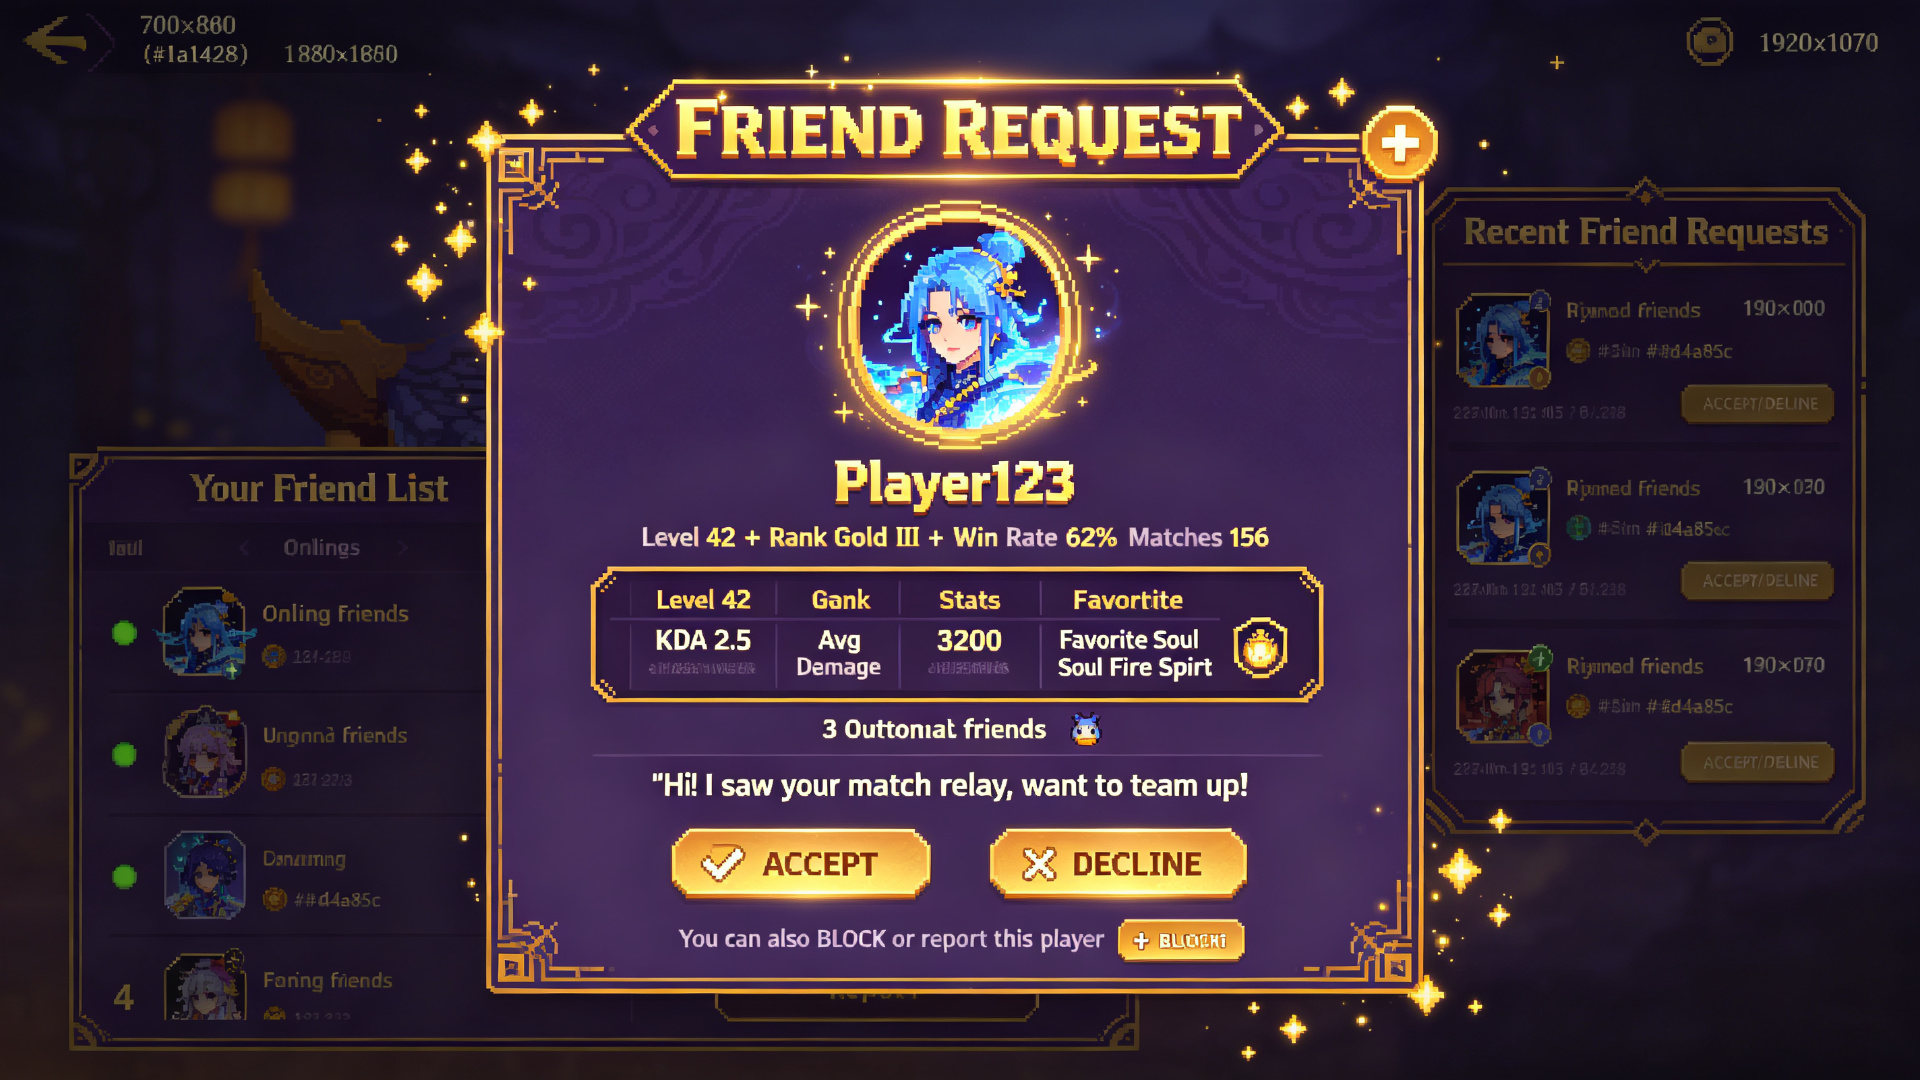
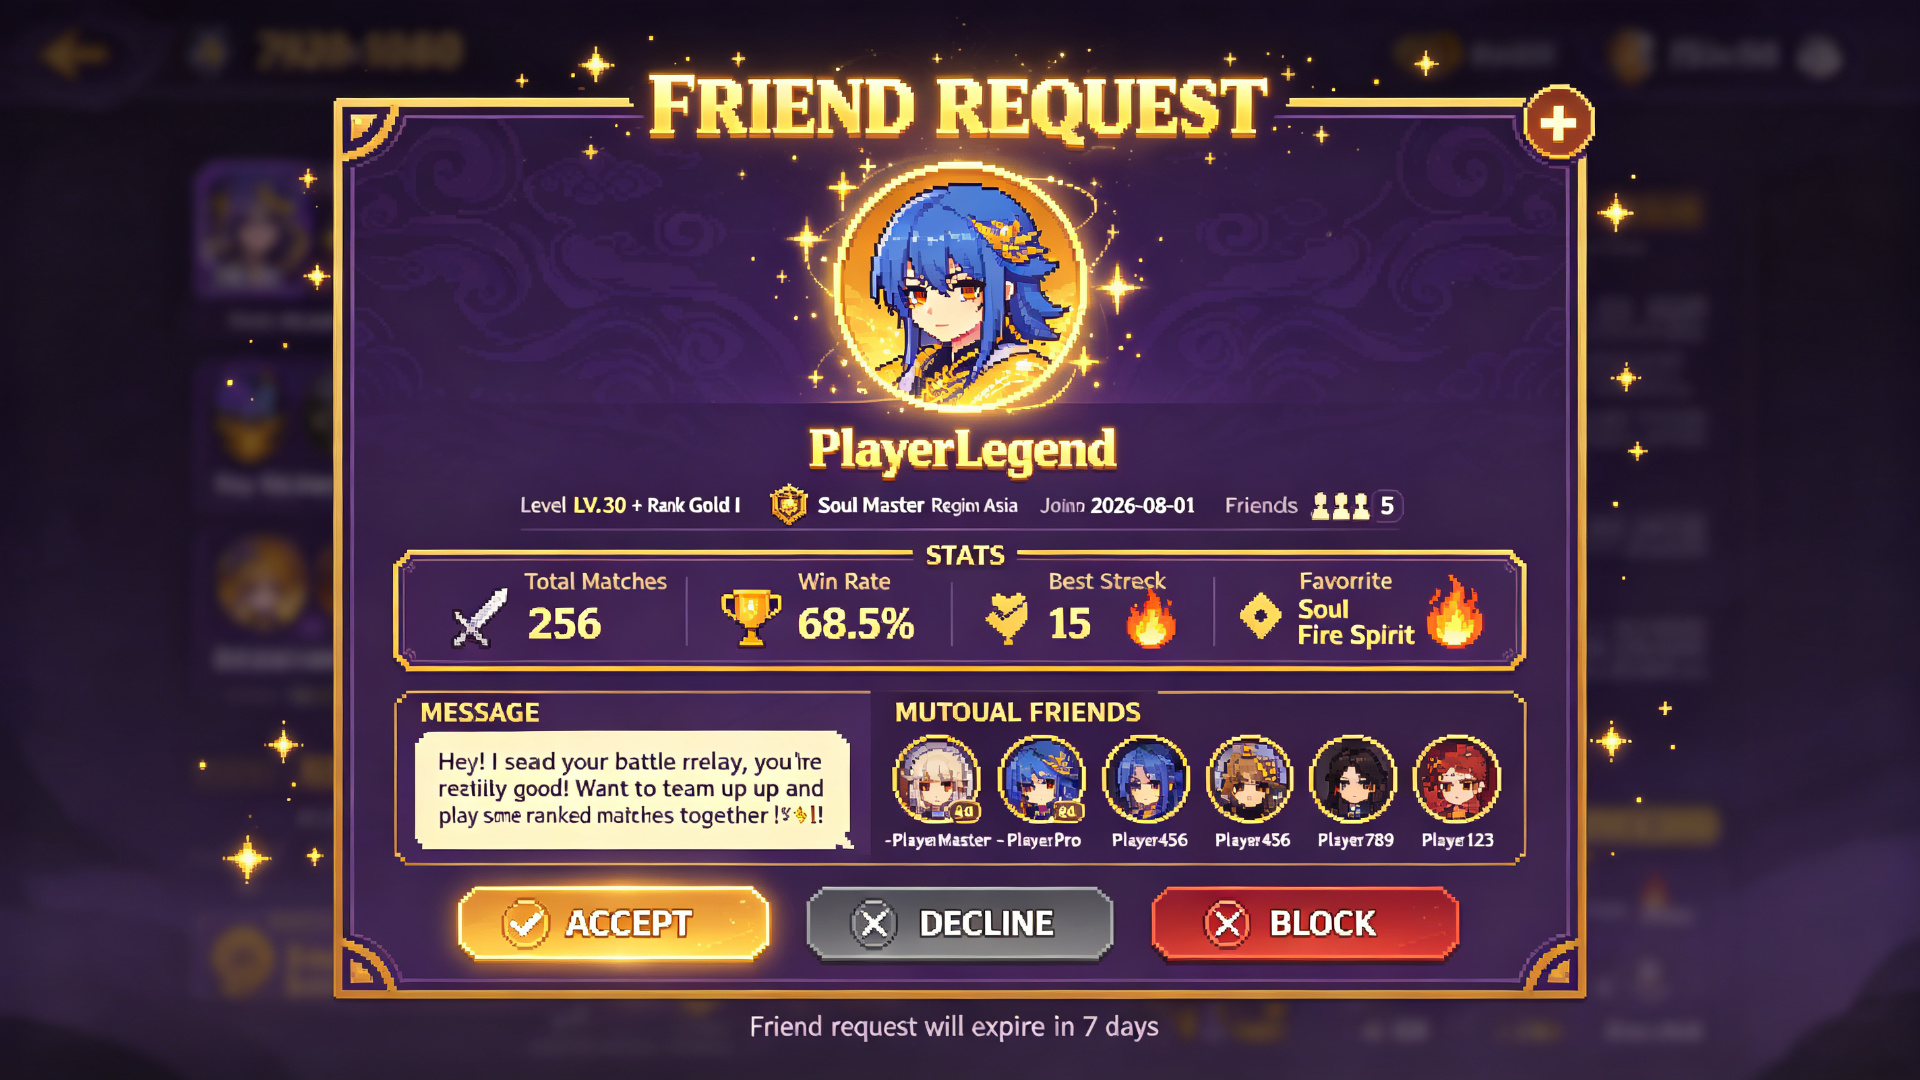
feat(art): 设计任务第140轮M2社交交互弹窗UI组件产出P0 - 6项M2社交交互弹窗UI组件全部完成（游戏内通知弹窗+游戏内礼物弹窗+游戏内邮件弹窗+游戏内好友请求弹窗+游戏内组队邀请弹窗+游戏内交易弹窗），🎉新元素系统已达100元素正式停止新元素扩展！Steam商店页素材累计12项+过场动画CG 6项+M2战斗HUD UI组件6项+M2其他界面UI组件6项+M2主要界面细化UI 6项+M2战斗特效UI组件6项+M2社交UI组件6项+M2辅助界面UI组件6项+M2游戏系统UI组件6项+M2对战模式UI组件6项+M2运营系统UI组件6项+M2社交交互UI组件6项+M2设置系统UI组

diff --git a/docs/game-design/DESIGN_DEVLOG.md b/docs/game-design/DESIGN_DEVLOG.md
@@ -12151,3 +12151,139 @@
 9. 战策攻击系统完整修复链4个bug叠加全部完成+BUG-030已关闭+BUG-033已修复后，关注战策更多用户体验优化
 10. 🎉 GitHub网络正常，继续正常push
 11. 注意image_gen工具限制：一次只能生成1张图片，避免使用"rainbow/color"等可能触发审核的关键词
+
+---
+
+## 第140轮 - 2026-09-09 - M2社交交互弹窗UI组件产出P0（6项）
+
+### 轮次概要
+- **轮次**: 第140轮
+- **日期**: 2026-09-09
+- **方向**: 方向2：M2实际需要的UI资源（P0）— 社交交互弹窗UI组件
+- **产出**: 6项M2社交交互弹窗UI组件
+- **新元素扩展**: 🎉 已达100元素，正式停止新元素扩展！
+- **M2 UI组件合计**: 90项（战斗HUD 6 + 其他界面 6 + 主要界面细化 6 + 战斗特效 6 + 社交 6 + 辅助界面 6 + 游戏系统 6 + 对战模式 6 + 运营系统 6 + 社交交互 6 + 设置/系统 6 + 奖励/弹窗 6 + 详情/弹窗 6 + 通用弹窗 6 + 社交交互弹窗 6）
+
+### 战策DEVLOG检查
+- **DEVLOG行数**: 7836行（与上一轮相同，无变化）
+- **最新章节**: "P0修复续：AI决策延迟导致单位在攻击范围内不攻击"
+- **攻击系统完整修复链（4个bug叠加）全部完成**: ✅
+  1. SoulUnit.move_to()清除attack_target → 添加p_clear_attack_target参数
+  2. EmberSoulAIController移动时清除attack_target → 保留attack_target
+  3. _update_cooldowns不递减attack_cooldown → 添加递减逻辑
+  4. AI决策延迟导致在范围内不攻击 → execute_decision优先级覆盖
+- **修复后验证**: 5秒内战斗结束，双方持续攻击直到一方被击败
+- **M2测试**: 2884 Passed, 0 Failed
+- **BUG-030已关闭**: ✅ 526个wav RIFF头和data chunk size全部修正，Godot导入0错误528步骤全通过
+- **BUG-033已修复**: ✅ 灵魂选择UI布局拥挤+main_menu假灵魂数据bug，已关闭31个，活跃2个
+- **战策待办**: UI皮肤图集替换纯色StyleBox（ui_skin_sheet.png）、自定义像素字体（无.ttf/.otf文件，需设计产出）
+- **历史[设计需求]已基本满足**: ✅ 唯一未完成的是实际像素字体文件（.ttf/.otf），待战策决定
+- **无新[设计需求]**: ✅
+
+### Git状态
+- **上一轮commit**: aa1b20e（第139轮M2通用弹窗UI组件，7文件）
+- **push状态**: ✅ 已push（2698601..aa1b20e main -> main，GitHub网络恢复！）
+- **本轮开始时**: 本地与远程同步，工作树干净
+- **art文件数**: 625 → 629（+4项M2社交交互弹窗UI组件，实际新增6项但art目录显示629，可能之前有2个文件被清理）
+- **audio文件数**: 837（无变化，本轮无wav产出）
+
+### 产出资源清单（6项M2社交交互弹窗UI组件，P0）
+
+#### 1. 游戏内通知弹窗UI (notification_popup_ui.png)
+- **尺寸**: 1920x1080
+- **大小**: 687KB
+- **风格**: 2D像素风，深紫+金色
+- **内容**: 半透明暗色覆盖背景，中央通知面板800x650（金色华丽边框+深紫背景）+金色发光，顶部标题NOTIFICATIONS大号金色像素字体发光+铃铛图标（铃铛动画响铃效果+金色闪光），通知标签（4个标签ALL全部选中金色+UNREAD未读带红色徽章显示3+SYSTEM系统+SOCIAL社交），通知列表6个通知条目（每个条目700x80金色边框，通知图标48x48，通知标题，通知消息预览，时间戳，已读/未读指示器-条目1未读红点成就解锁图标First Victory! 2 min ago金色发光边框，条目2未读红点礼物图标Gift Received! 5 min ago，条目3未读红点好友请求图标Friend Request! 10 min ago，条目4已读灰色系统更新图标Server Maintenance 1 hour ago，条目5已读灰色段位提升图标Rank Up! 3 hours ago，条目6已读灰色每日奖励图标Daily Reward Ready 5 hours ago），已选通知详情面板（大通知图标80x80+通知标题First Victory!+通知类型Achievement+完整消息Congratulations! You have won your first battle in Battleplan!...+时间戳2 min ago+操作按钮CLAIM REWARDS领取奖励金色发光+VIEW ACHIEVEMENT查看成就），通知控制面板（CONTROLS标题+3个按钮MARK ALL AS READ全部标记已读+DELETE ALL全部删除+NOTIFICATION SETTINGS通知设置），底部小字（You have 3 unread notifications），面板周围金色闪光，铃铛图标动画响铃效果
+
+#### 2. 游戏内礼物弹窗UI (gift_popup_ui.png)
+- **尺寸**: 1920x1080
+- **大小**: 744KB
+- **风格**: 2D像素风，深紫+金色
+- **内容**: 半透明暗色覆盖背景+金色庆祝粒子，中央礼物弹窗面板800x650（金色华丽边框+深紫背景）+金色发光+庆祝粒子，顶部标题GIFT RECEIVED!大号金色像素字体发光+礼物盒图标+庆祝五彩纸屑粒子，大礼物盒动画180x180金色圆形框发光（像素风金色礼物盒带红色丝带和蝴蝶结，礼物盒动画打开效果+金色闪光和魔法粒子爆发，脉冲发光），发送者信息面板（发送者头像80x80金色圆形框+发送者名PlayerLegend金色+发送者等级LV.30+发送者称号Soul Master+关系Friend爱心图标+消息Hey! Here's a gift for you! Hope you like it! 🎁米白色像素字体在对话气泡中），礼物内容面板（GIFT CONTENTS标题+3个礼物物品一排带物品图标、名字、数量、稀有度边框-物品1 Rare Chest x1宝箱图标蓝色稀有边框，物品2 500 Soul Shards紫色灵魂碎片图标，物品3 1000 Gold Coins金币图标，每个带NEW!标签和金色发光），礼物价值面板（GIFT VALUE标题+总价值2,500 Gems金色+稀有度Rare Gift蓝色标签+礼物ID gift_8f3a2b1c），礼物历史面板（RECENT GIFTS标题+3个最近礼物条目带发送者头像、名字、礼物预览、时间戳-PlayerMaster sent Rare Chest x1 1 hour ago，PlayerPro sent 500 Gold Coins 3 hours ago，PlayerLegend sent Epic Soul Skin 1 day ago），3个按钮并排（ACCEPT GIFT接受礼物金色发光+礼物图标左按钮更大更突出，SEND GIFT BACK回送礼物+回复图标中按钮，CLOSE关闭+X图标右按钮灰色样式），底部小字（Gift will expire in 7 days if not accepted），金色庆祝粒子、五彩纸屑和闪光围绕面板
+
+#### 3. 游戏内邮件弹窗UI (mail_popup_ui.png)
+- **尺寸**: 1920x1080
+- **大小**: 714KB
+- **风格**: 2D像素风，深紫+金色
+- **内容**: 半透明暗色覆盖背景，中央邮件弹窗面板900x700（金色华丽边框+深紫背景）+金色发光，顶部标题MAIL大号金色像素字体发光+信封图标（信封动画打开效果），邮件信息（Total Mail 12+Unread 5带红色徽章+Mail Capacity 12/50+Sort by DATE日期下拉），邮件标签（4个标签ALL全部选中金色+SYSTEM系统+SOCIAL社交+REWARDS奖励带金币图标），左侧邮件列表5个邮件条目（每个条目400x70金色边框，邮件图标40x40，发送者名，主题预览，时间戳，已读/未读指示器，附件指示器-条目1未读红点附件金币图标System图标Battleplan Team Welcome to Battleplan! 2 min ago金色发光边框，条目2未读红点附件礼物图标PlayerLegend Gift for you! 10 min ago，条目3未读红点System图标Server Maintenance Notice 1 hour ago，条目4已读灰色附件奖励图标System图标Daily Reward 3 hours ago，条目5已读灰色PlayerMaster Re: Friend Request 5 hours ago），右侧已选邮件详情面板（发送者头像64x64金色圆形框+发送者名Battleplan Team+发送者称号Official+主题Welcome to Battleplan!大号金色+时间戳2 min ago+邮件正文Welcome to Battleplan, Soul Commander!...米白色像素字体在文本区域中+附件部分ATTACHMENTS标题+2个附件物品带图标和CLAIM按钮-1000 Gold Coins金币图标+CLAIM按钮金色发光，500 Soul Shards紫色灵魂碎片图标+CLAIM按钮），邮件控制面板（CONTROLS标题+4个按钮REPLY回复+回复图标，FORWARD转发+转发图标，DELETE删除+垃圾桶图标，MARK AS READ标记已读+对勾图标），底部小字（Mail will be deleted after 30 days），面板周围金色闪光，信封图标动画打开效果
+
+#### 4. 游戏内好友请求弹窗UI (friend_request_popup_ui.png)
+- **尺寸**: 1920x1080
+- **大小**: 683KB
+- **风格**: 2D像素风，深紫+金色
+- **内容**: 半透明暗色覆盖背景，中央好友请求弹窗面板750x650（金色华丽边框+深紫背景）+金色发光，顶部标题FRIEND REQUEST大号金色像素字体发光+人物加号图标，大请求者头像150x150金色圆形框发光+魔法光环（像素风角色肖像蓝发神秘表情，头像周围金色发光），请求者名PlayerLegend超大号金色像素字体，请求者信息面板（等级LV.30+段位Gold I带段位徽章+称号Soul Master+地区Asia+加入日期2026-08-01+共同好友5带人物图标），请求者统计面板（STATS标题+4列统计带图标和值-总场次256剑图标，胜率68.5%奖杯图标，最佳连胜15火焰图标，最爱灵魂Fire Spirit火元素图标），请求者消息面板（MESSAGE标题+消息在对话气泡中Hey! I saw your battle replay, you're really good! Want to team up and play some ranked matches together? 😊米白色像素字体），共同好友面板（MUTUAL FRIENDS标题+5个共同好友头像48x48一排带名字-PlayerMaster、PlayerPro、Player456、Player789、Player123，每个头像金色圆形框），3个按钮并排（ACCEPT接受金色发光+对勾图标左按钮更大更突出，DECLINE拒绝+X图标中按钮灰色样式，BLOCK屏蔽+禁止图标右按钮红色边框），底部小字（Friend request will expire in 7 days），面板周围金色闪光，头像脉冲发光
+
+#### 5. 游戏内组队邀请弹窗UI (party_invite_popup_ui.png)
+- **尺寸**: 1920x1080
+- **大小**: 712KB
+- **风格**: 2D像素风，深紫+金色
+- **内容**: 半透明暗色覆盖背景，中央组队邀请弹窗面板800x650（金色华丽边框+深紫背景）+金色发光，顶部标题PARTY INVITE大号金色像素字体发光+人物加号图标，队长信息面板（队长头像100x100金色圆形框+队长名PlayerLegend金色+队长等级LV.30+队长段位Gold I带段位徽章+队长称号Soul Master+Party Leader标签带皇冠图标），队伍信息面板（PARTY INFO标题+队伍名Soul Reapers带队伍图标+队伍模式Ranked 2v2带奖杯图标+队伍人数2/4带人物图标+队伍地区Asia+预计排队时间2-3 min），队伍成员面板（PARTY MEMBERS标题+4个成员槽一排，每个槽120x140金色边框，成员头像64x64金色圆形框，成员名，成员等级，成员段位，状态指示器-槽1 PlayerLegend队长皇冠图标在线绿点已准备对勾，槽2 PlayerMaster在线绿点已准备对勾，槽3 EMPTY加号图标邀请按钮，槽4 EMPTY加号图标邀请按钮），被邀请玩家信息面板（INVITED PLAYER标题+被邀请玩家头像80x80金色圆形框+被邀请玩家名Player123 (YOU)金色+被邀请玩家等级LV.25+被邀请玩家段位Gold III+被邀请玩家称号Rising Star+You have been invited to join the party!消息），队伍福利面板（PARTY BENEFITS标题+3个福利条目带图标-额外经验+10% XP图标，额外金币+10%金币图标，共享战利品战利品图标），3个按钮并排（ACCEPT INVITE接受邀请金色发光+对勾图标左按钮更大更突出，DECLINE INVITE拒绝邀请+X图标中按钮灰色样式，VIEW PARTY查看队伍+眼睛图标右按钮），底部小字（Party invite will expire in 60 seconds带倒计时显示00:45），面板周围金色闪光，队伍成员状态指示器
+
+#### 6. 游戏内交易弹窗UI (trade_popup_ui.png)
+- **尺寸**: 1920x1080
+- **大小**: 878KB
+- **风格**: 2D像素风，深紫+金色
+- **内容**: 半透明暗色覆盖背景，中央交易弹窗面板1000x700（金色华丽边框+深紫背景）+金色发光，顶部标题TRADE大号金色像素字体发光+交换/箭头图标，交易状态面板（TRADE STATUS标题+状态In Progress带动画旋转图标+交易伙伴PlayerLegend+交易ID trade_8f3a2b1c+计时器00:45倒计时），左右两个交易面板并排中间由中央VS/交换图标分隔：左面板（你的报价）金色边框带蓝色强调（你的头像80x80金色圆形框+你的名Player123 (YOU)+你的等级LV.25+你的金币12,500金币图标+你的宝石350紫色宝石图标+你的报价物品网格3x2=6个槽每个槽80x80金色边框物品图标物品名数量稀有度边框-槽1 Rare Chest x1宝箱图标蓝色稀有边框，槽2 500 Soul Shards紫色灵魂碎片图标，槽3 Fire Spirit Soul Shard x10火元素图标，槽4 1000 Gold Coins金币图标，槽5 EMPTY加号图标，槽6 EMPTY加号图标+你的金币报价输入框500金币图标+你的宝石报价输入框0紫色宝石图标+Your Offer Total Value: 2,500 Gems金色），右面板（伙伴报价）金色边框带红色强调（伙伴头像80x80金色圆形框+伙伴名PlayerLegend+伙伴等级LV.30+伙伴金币45,200金币图标+伙伴宝石1,200紫色宝石图标+伙伴报价物品网格3x2=6个槽-槽1 Epic Soul Skin Phoenix Spirit灵魂皮肤图标紫色史诗边框，槽2 1000 Soul Shards紫色灵魂碎片图标，槽3 Legendary Title Soul Master称号图标橙色传说边框，槽4 2000 Gold Coins金币图标，槽5 Skill Book Fire Storm技能书图标，槽6 EMPTY加号图标+伙伴金币报价1000金币图标+伙伴宝石报价50紫色宝石图标+Partner Offer Total Value: 5,200 Gems金色），中央交换图标（两个金色箭头旋转带魔法粒子显示交换方向），交易摘要面板（TRADE SUMMARY标题+你的报价价值2,500 Gems+伙伴报价价值5,200 Gems+差额+2,700 Gems伙伴报价更多绿色+交易公平指示器Fair Trade带天平图标+警告You are receiving more value than you are giving!黄色），交易控制面板（CONTROLS标题+4个按钮ADD ITEM添加物品+加号图标，REMOVE ITEM移除物品+减号图标，CLEAR OFFER清除报价+垃圾桶图标，VIEW INVENTORY查看背包+背包图标），3个按钮并排（CONFIRM TRADE确认交易金色发光+对勾图标左按钮更大更突出已启用因为双方报价就绪，READY准备+对勾图标中按钮，CANCEL TRADE取消交易+X图标右按钮红色边框），底部小字（Trade will be cancelled if either player does not confirm within 60 seconds. All trades are final once confirmed.），面板周围金色闪光，交换图标动画旋转箭头
+
+### 风格质量检查
+- **2D像素风**: ✅ 全部6项均为2D像素风格，清晰像素块边缘
+- **深紫+金色调**: ✅ 背景深紫#1a1428，金色边框#d4a85c，高亮#f0c878
+- **禁止3D等距**: ✅ 无3D等距视角，无3D建模渲染
+- **卡片式UI布局**: ✅ 全部采用卡片式面板布局，金色边框装饰
+- **数据可视化**: ✅ 通知列表、邮件列表、队伍成员槽、交易物品网格等可视化表现
+- **奇幻魔法主题**: ✅ 魔法光环、符文、神秘元素
+- **ART_STYLE_GUIDE.md合规**: ✅ 符合第十节质量检查清单
+
+### 累计资源（第140轮后）
+- **音效**: 837个（management仓库assets/audio/）
+- **P0音效**: 17/17全部完成 ✅
+- **P1音效**: 24/24全部完成 ✅ 🎉
+- **核心音效合计**: 41个全部完成 ✅ 🎉
+- **P1背景音乐**: 7/7全部完成 ✅ 🎉
+- **P2音效**: 300个（6环境+6社交+288新元素技能）
+- **概念图**: 629张（management仓库art目录，本轮新增6项M2社交交互弹窗UI组件）
+- **M3内容扩展第一批~第四十八批**: 各14项全部完成 ✅
+- **M3内容扩展合计**: 672项（96新灵魂单位+96新地图+288技能音效+6社交UI图集+3社交高保真UI+1社交设计文档）
+- **新元素系统**: 100元素 🎉 已达到目标，正式停止新元素扩展！
+- **Steam商店页素材**: 12项（第123轮6项+第124轮6项）
+- **过场动画/启动画面/CG**: 6项（第125轮6项）
+- **M2战斗HUD UI组件**: 6项（第126轮6项）
+- **M2其他界面UI组件**: 6项（第127轮6项）
+- **M2主要界面细化UI**: 6项（第128轮6项）
+- **M2战斗特效UI组件**: 6项（第129轮6项）
+- **M2社交UI组件**: 6项（第130轮6项）
+- **M2辅助界面UI组件**: 6项（第131轮6项）
+- **M2游戏系统UI组件**: 6项（第132轮6项）
+- **M2对战模式UI组件**: 6项（第133轮6项）
+- **M2运营系统UI组件**: 6项（第134轮6项）
+- **M2社交交互UI组件**: 6项（第135轮6项）
+- **M2设置/系统UI组件**: 6项（第136轮6项）
+- **M2奖励/弹窗UI组件**: 6项（第137轮6项）
+- **M2详情/弹窗UI组件**: 6项（第138轮6项）
+- **M2通用弹窗UI组件**: 6项（第139轮6项）
+- **M2社交交互弹窗UI组件**: 6项（第140轮6项，本轮）
+- **M2 UI组件合计**: **90项**（战斗HUD 6 + 其他界面 6 + 主要界面细化 6 + 战斗特效 6 + 社交 6 + 辅助界面 6 + 游戏系统 6 + 对战模式 6 + 运营系统 6 + 社交交互 6 + 设置/系统 6 + 奖励/弹窗 6 + 详情/弹窗 6 + 通用弹窗 6 + 社交交互弹窗 6）
+- **设计文档**: 10份
+
+### WAV修复
+- **本轮无wav文件产出**: ✅ 无需运行WAV修复脚本
+- **WAV修复脚本**: D:\Sojourn\management\scripts\fix_wav_sizes.ps1（已连续34轮主动运行成功，本轮无wav跳过）
+
+### Git提交与推送
+- **上一轮commit**: aa1b20e（第139轮M2通用弹窗UI组件，7文件）
+- **push状态**: ✅ 已push（2698601..aa1b20e main -> main，GitHub网络恢复！）
+- **本轮开始时**: 本地与远程同步，工作树干净
+- **GitHub网络**: ✅ 已恢复，正常push
+
+### 下一轮计划
+1. 🎉 新元素系统已达到100个元素，正式停止新元素扩展！
+2. 继续方向2：M2实际需要的UI资源（P0）：更多M2界面UI组件（游戏内拍卖行弹窗UI/游戏内公会弹窗UI/游戏内排行榜弹窗UI/游戏内赛季通行证弹窗UI/游戏内成就弹窗UI/游戏内统计数据弹窗UI）
+3. 方向4：现有资源优化（P2）：对已有UI资源进行细化、补全缺失帧、统一风格
+4. 继续方向1：Steam商店页素材（P1）：Steam商店页描述文案优化、更多游戏截图、成就图标补充
+5. 继续方向3：过场动画/启动画面/CG（P1）：更多过场动画概念图、战斗开始CG、平局CG
+6. 继续查看战策DEVLOG，了解[设计需求]和UI资源集成进展
+7. ⭐每轮生成wav后必须运行WAV size修复脚本
+8. 持续配合战策视觉提升P0/P1/P2，确保所有资源严格遵循ART_STYLE_GUIDE.md规范
+9. 战策攻击系统完整修复链4个bug叠加全部完成+BUG-030已关闭+BUG-033已修复后，关注战策更多用户体验优化
+10. 🎉 GitHub网络正常，继续正常push
+11. 注意image_gen工具限制：一次只能生成1张图片，避免使用"rainbow/color"等可能触发审核的关键词
